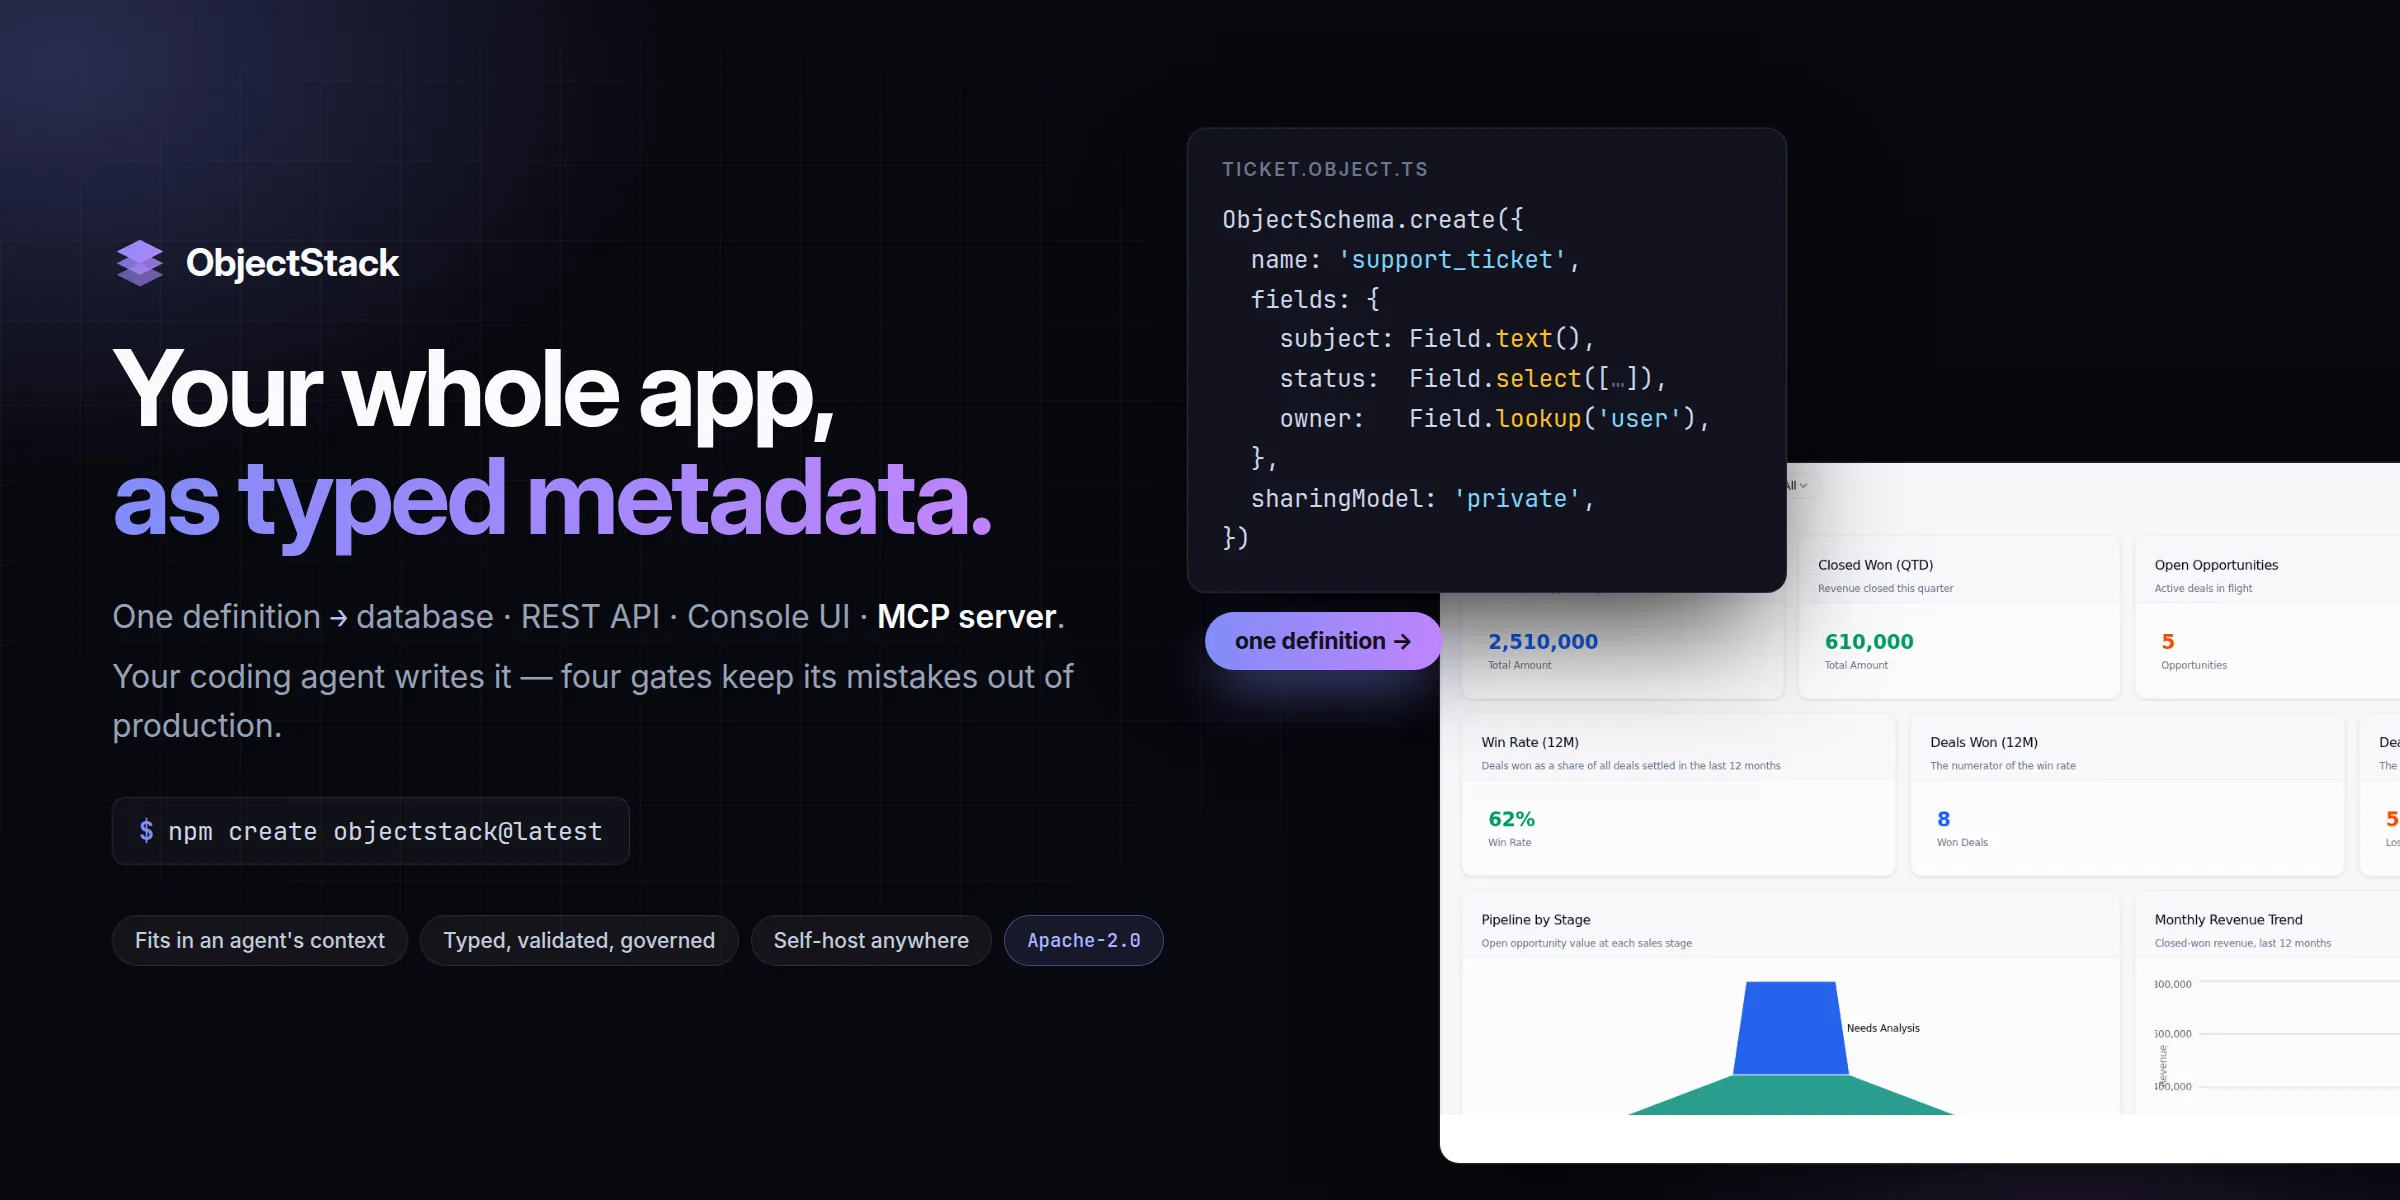
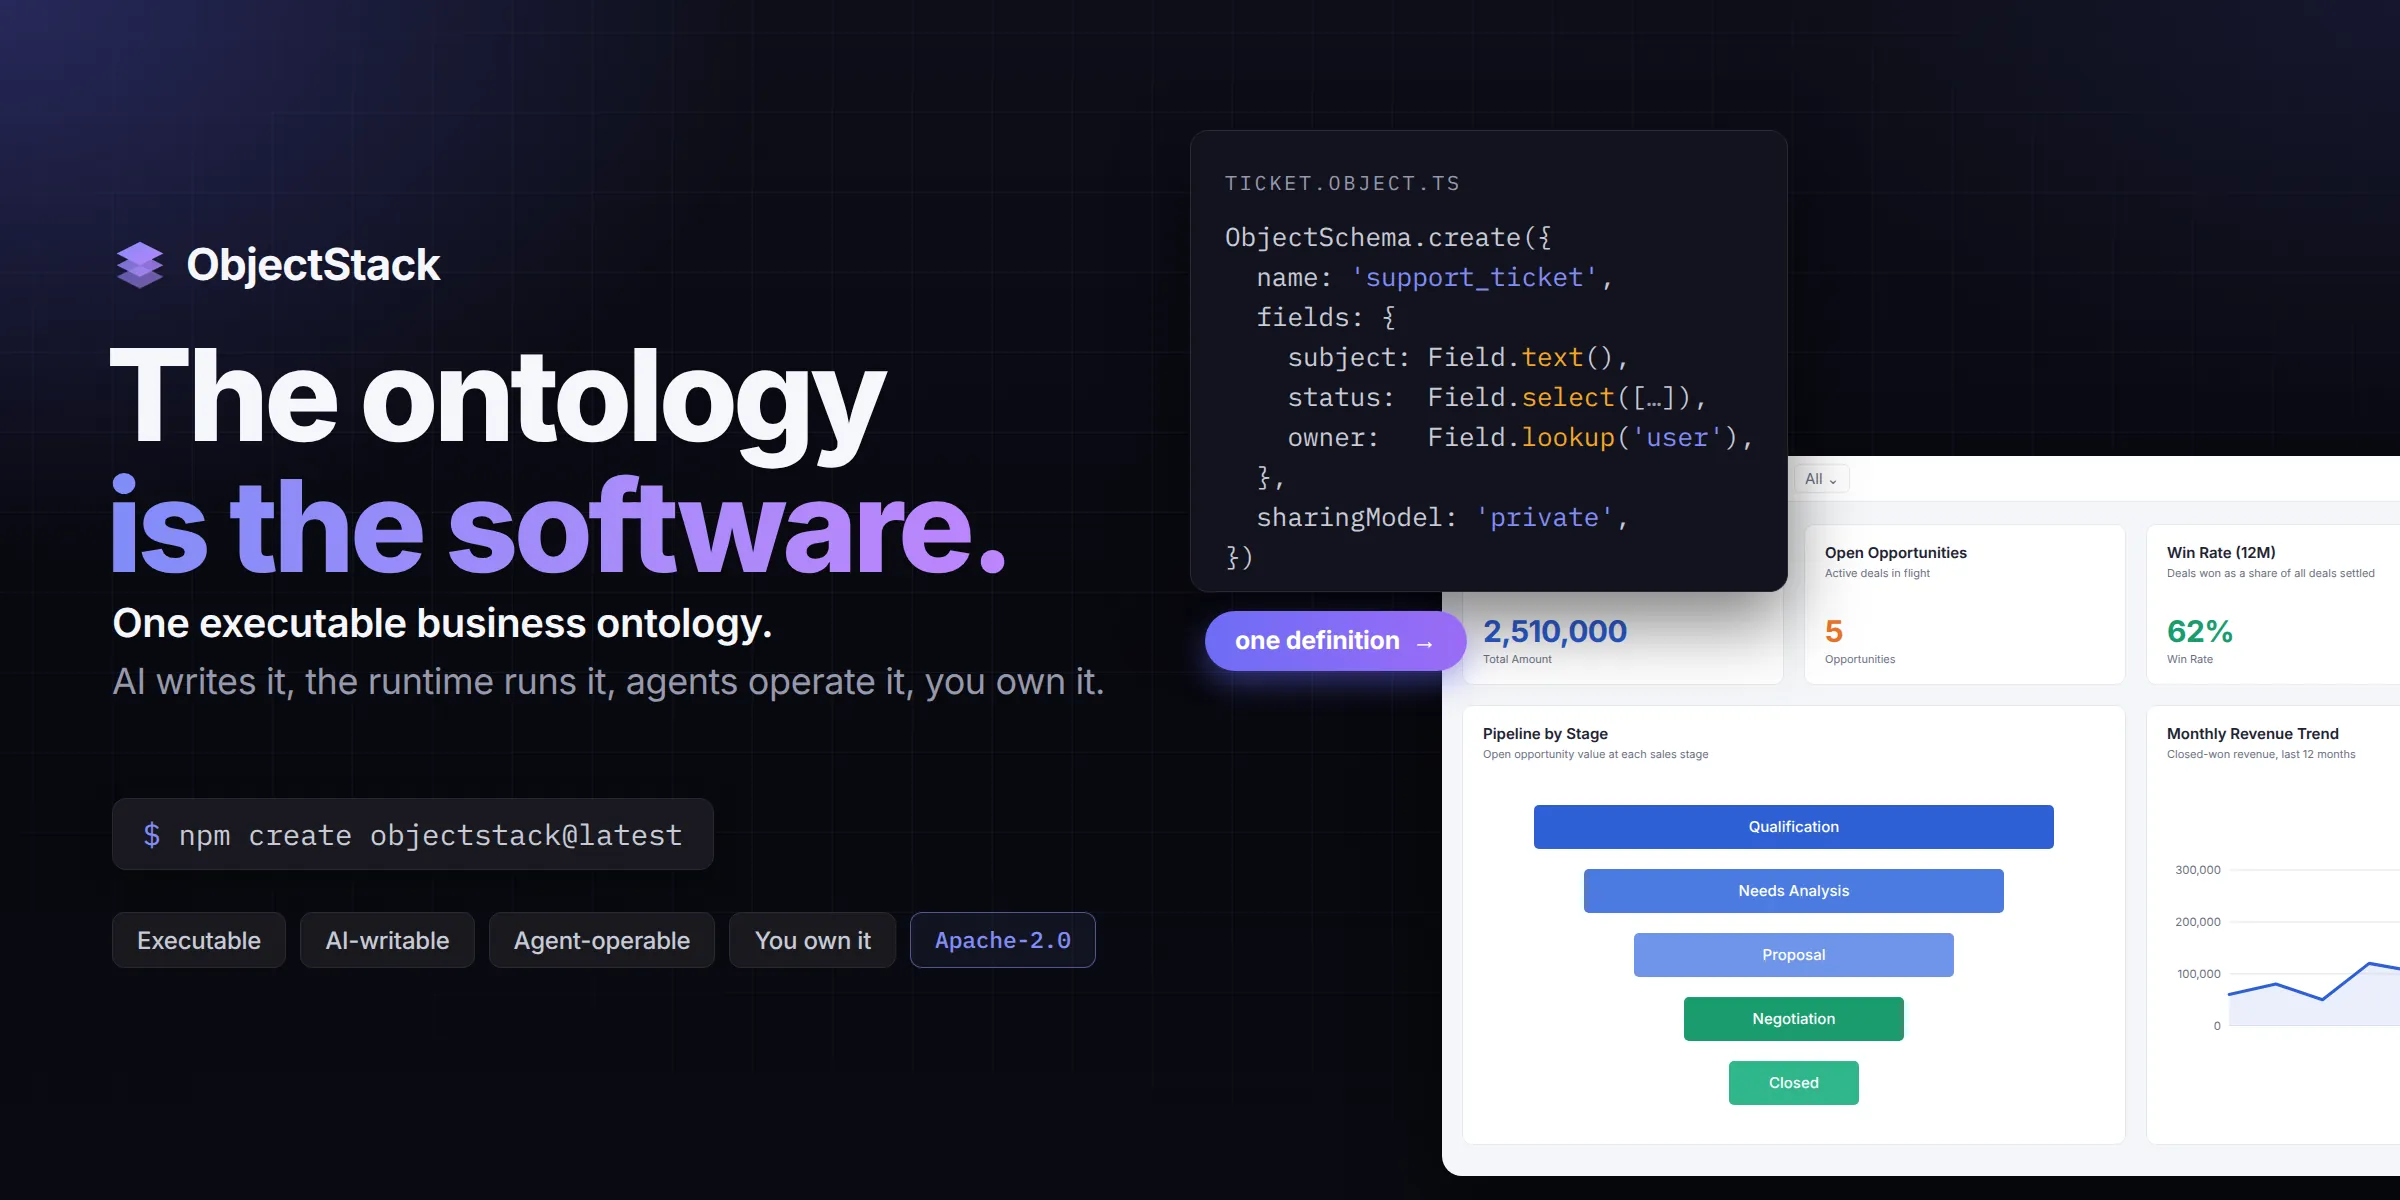
docs(cover): re-render the hero cover on the slogan, with its template beside it
The README hero (docs/screenshots/hero-cover-dark.png, 2400x1200) and the
docs site's og:image / video poster (apps/docs/public/hero-cover-dark.webp)
now carry the headline "The ontology is the software.", the descriptor
and the chips Executable · AI-writable · Agent-operable · You own it ·
Apache-2.0. There was no design source in the repo; the cover is now a
screenshot of docs/screenshots/hero-cover-dark.html taken by
docs/screenshots/render-hero-cover.mjs with the preinstalled Playwright
Chromium (resolved from the showcase example's @playwright/test), and
the webp is derived from that PNG by sharp (quality 80, effort 6, as the
HERO_COVER provenance block prescribes; sharp resolved from the docs
app's Next dependency). The provenance block records the new bytes
(563,953 B PNG, 85,472 B webp) and sharp 0.35.4; the declared 2400x1200
is unchanged and matches the files.

Claude-Session: https://claude.ai/code/session_011hRnra93sK5Q2gTYYTbdJR

diff --git a/docs/screenshots/hero-cover-dark.html b/docs/screenshots/hero-cover-dark.html
@@ -1,0 +1,275 @@
+<!doctype html>
+<!--
+  hero-cover-dark.html — the design source of the README hero cover.
+
+  Renders at exactly 2400 x 1200. The committed master
+  `docs/screenshots/hero-cover-dark.png` is a screenshot of this page, and
+  `apps/docs/public/hero-cover-dark.webp` (the docs site's og:image and video
+  poster) is derived from that PNG — see the provenance block on `HERO_COVER` in
+  `apps/docs/lib/site.ts`. The next copy change is an edit here plus one
+  re-render; nothing is hand-painted.
+
+  Re-render both files (the preinstalled Playwright Chromium, never
+  `playwright install`; sharp resolves from the docs app's Next dependency):
+
+    node docs/screenshots/render-hero-cover.mjs
+
+  Preview without touching the committed files:
+
+    node docs/screenshots/render-hero-cover.mjs --out /tmp/hero-preview
+
+  The equivalent of the webp step by hand, from the PNG master and never from a
+  previous webp (a lossy re-encode of a lossy source compounds):
+
+    sharp('docs/screenshots/hero-cover-dark.png')
+      .webp({ quality: 80, effort: 6 })
+      .toFile('apps/docs/public/hero-cover-dark.webp')
+
+  Typography is Inter and IBM Plex Mono from Google Fonts; the render script
+  refuses to write the committed files when those fonts did not load, so an
+  offline render cannot silently ship the system fallback.
+
+  Copy on this page is fixed by the positioning card: the slogan, the
+  descriptor and the four promises are quoted verbatim from README.md and must
+  change together with it.
+-->
+<html lang="en">
+<head>
+<meta charset="utf-8">
+<title>ObjectStack — hero cover</title>
+<link rel="preconnect" href="https://fonts.googleapis.com">
+<link rel="preconnect" href="https://fonts.gstatic.com" crossorigin>
+<link href="https://fonts.googleapis.com/css2?family=Inter:wght@400;500;600;700;800&family=IBM+Plex+Mono:wght@400;500&display=block" rel="stylesheet">
+<style>
+  :root {
+    --bg: #08080f;
+    --bg-2: #0d0e18;
+    --grid: rgba(148, 163, 230, 0.075);
+    --fg: #f5f6fa;
+    --fg-2: #c7cad6;
+    --fg-3: #9598ab;
+    --indigo: #818cf8;
+    --violet: #a78bfa;
+    --purple: #bd84fc;
+    --card: #12131f;
+    --card-2: #191920;
+    --line: #2a2a30;
+    --amber: #f5a623;
+    --dash-bg: #f4f5f8;
+    --dash-card: #ffffff;
+    --dash-line: #e6e8ee;
+    --dash-fg: #1f2433;
+    --dash-fg-2: #6b7085;
+    --kpi-blue: #2f5fd6;
+    --kpi-green: #1a9c6e;
+    --kpi-orange: #e8752a;
+    --font-sans: Inter, 'Liberation Sans', 'DejaVu Sans', system-ui, sans-serif;
+    --font-mono: 'IBM Plex Mono', 'Liberation Mono', 'DejaVu Sans Mono', monospace;
+  }
+  * { box-sizing: border-box; margin: 0; padding: 0; }
+  html, body { width: 2400px; height: 1200px; overflow: hidden; }
+  body {
+    position: relative;
+    background: var(--bg);
+    color: var(--fg);
+    font-family: var(--font-sans);
+    -webkit-font-smoothing: antialiased;
+    text-rendering: geometricPrecision;
+  }
+  .backdrop {
+    position: absolute; inset: 0;
+    background:
+      radial-gradient(1100px 760px at 0% 0%, rgba(99, 102, 241, 0.30), transparent 70%),
+      radial-gradient(900px 600px at 100% 0%, rgba(99, 102, 241, 0.10), transparent 70%),
+      linear-gradient(180deg, var(--bg-2) 0%, var(--bg) 55%, #090b11 100%);
+  }
+  .grid {
+    position: absolute; inset: 0;
+    background-image:
+      linear-gradient(to right, var(--grid) 1px, transparent 1px),
+      linear-gradient(to bottom, var(--grid) 1px, transparent 1px);
+    background-size: 80px 80px;
+    background-position: 32px 32px;
+    -webkit-mask-image: radial-gradient(ellipse 85% 75% at 45% 40%, black 30%, transparent 100%);
+            mask-image: radial-gradient(ellipse 85% 75% at 45% 40%, black 30%, transparent 100%);
+  }
+
+  /* ── left column ───────────────────────────────────────── */
+  .left { position: absolute; left: 112px; top: 0; width: 1040px; height: 1200px; }
+  .brand { position: absolute; top: 236px; left: 0; display: flex; align-items: center; gap: 18px; }
+  .brand svg { width: 56px; height: 56px; }
+  .brand span { font-size: 44px; font-weight: 700; letter-spacing: -0.02em; color: var(--fg); }
+  h1 {
+    position: absolute; top: 330px; left: -6px;
+    font-size: 128px; line-height: 1.02; font-weight: 800; letter-spacing: -0.038em;
+    color: var(--fg); white-space: nowrap;
+  }
+  h1 .accent {
+    display: block;
+    background: linear-gradient(90deg, var(--indigo) 0%, var(--violet) 55%, var(--purple) 100%);
+    -webkit-background-clip: text; background-clip: text; color: transparent;
+    padding-right: 0.08em; /* keeps the period's clip box clear of the gradient edge */
+  }
+  .sub { position: absolute; left: 0; width: 1040px; font-weight: 400; letter-spacing: -0.012em; }
+  .sub-1 { top: 598px; font-size: 40px; color: var(--fg-2); }
+  .sub-1 b { font-weight: 600; color: var(--fg); }
+  .sub-2 { top: 658px; font-size: 36px; line-height: 1.32; color: var(--fg-3); }
+  .cmd {
+    position: absolute; top: 798px; left: 0; display: inline-flex; align-items: center; gap: 18px;
+    padding: 0 30px; height: 72px; border-radius: 14px;
+    background: var(--card-2); border: 1.5px solid var(--line);
+    font-family: var(--font-mono); font-size: 29px; color: var(--fg-2);
+    box-shadow: 0 10px 30px rgba(0, 0, 0, 0.35);
+  }
+  .cmd .prompt { color: var(--indigo); }
+  .chips { position: absolute; top: 912px; left: 0; display: flex; gap: 14px; white-space: nowrap; }
+  .chip {
+    display: inline-flex; align-items: center; height: 56px; padding: 0 24px; border-radius: 12px;
+    background: #19191f; border: 1.5px solid var(--line);
+    font-size: 24px; font-weight: 500; letter-spacing: -0.01em; color: var(--fg-2);
+  }
+  .chip.licence {
+    font-family: var(--font-mono); font-size: 23px; font-weight: 500; color: var(--indigo);
+    border-color: rgba(129, 140, 248, 0.55); background: rgba(129, 140, 248, 0.08);
+  }
+
+  /* ── right column ──────────────────────────────────────── */
+  .code {
+    position: absolute; left: 1190px; top: 130px; width: 598px; height: 462px;
+    border-radius: 18px; background: var(--card); border: 1.5px solid var(--line);
+    box-shadow: 0 30px 70px rgba(0, 0, 0, 0.5); padding: 32px 34px;
+    font-family: var(--font-mono); font-size: 26px; line-height: 40px; color: var(--fg-2); z-index: 3;
+  }
+  .code .file { font-size: 20px; letter-spacing: 0.14em; color: var(--fg-3); margin-bottom: 14px; }
+  .code pre { font: inherit; white-space: pre; }
+  .code .s { color: var(--indigo); }
+  .code .fn { color: var(--amber); }
+  .code .pn { color: var(--fg-3); }
+  .pill {
+    position: absolute; left: 1205px; top: 611px; height: 60px; padding: 0 30px; border-radius: 30px;
+    display: inline-flex; align-items: center; gap: 12px; z-index: 3;
+    background: linear-gradient(90deg, #6d6cf5 0%, #9b6cf6 100%);
+    font-size: 25px; font-weight: 700; letter-spacing: -0.01em; color: #fff;
+    box-shadow: 0 12px 30px rgba(99, 102, 241, 0.45);
+  }
+  .dash {
+    position: absolute; left: 1442px; top: 456px; width: 1120px; height: 720px;
+    border-radius: 20px 0 0 20px; background: var(--dash-bg);
+    box-shadow: 0 30px 80px rgba(0, 0, 0, 0.55); overflow: hidden; z-index: 2;
+    color: var(--dash-fg); font-family: var(--font-sans);
+  }
+  .dash .bar {
+    height: 46px; border-bottom: 1px solid var(--dash-line); background: #fff;
+    display: flex; align-items: center; justify-content: flex-start; padding: 0 0 0 352px;
+    font-size: 15px; color: var(--dash-fg-2);
+  }
+  .dash .bar .sel { border: 1px solid var(--dash-line); border-radius: 6px; padding: 4px 10px; }
+  .dash .body { padding: 22px 0 0 20px; display: grid; grid-template-columns: 322px 322px 322px 322px; gap: 20px; }
+  .kpi, .panel { background: var(--dash-card); border: 1px solid var(--dash-line); border-radius: 10px; padding: 18px 20px; }
+  .kpi .t { font-size: 15px; font-weight: 600; }
+  .kpi .d { font-size: 11px; color: var(--dash-fg-2); margin-top: 4px; }
+  .kpi .v { font-size: 30px; font-weight: 700; margin-top: 34px; letter-spacing: -0.02em; }
+  .kpi .l { font-size: 11px; color: var(--dash-fg-2); margin-top: 2px; }
+  .blue { color: var(--kpi-blue); } .green { color: var(--kpi-green); } .orange { color: var(--kpi-orange); }
+  .panel { grid-column: span 2; height: 440px; }
+  .panel .t { font-size: 15px; font-weight: 600; }
+  .panel .d { font-size: 11px; color: var(--dash-fg-2); margin-top: 4px; }
+  .panel svg { display: block; margin-top: 22px; width: 100%; height: 340px; }
+  .wide { grid-column: span 2; }
+</style>
+</head>
+<body>
+<div class="backdrop"></div>
+<div class="grid"></div>
+
+<div class="left">
+  <div class="brand" aria-label="ObjectStack">
+    <svg viewBox="0 0 24 24" fill="none" aria-hidden="true">
+      <defs>
+        <linearGradient id="logo-gradient" x1="0%" y1="0%" x2="100%" y2="100%">
+          <stop offset="0%" stop-color="#818cf8" />
+          <stop offset="100%" stop-color="#c084fc" />
+        </linearGradient>
+      </defs>
+      <path d="M12 22.5L2 17.5L12 12.5L22 17.5L12 22.5Z" fill="url(#logo-gradient)" fill-opacity="0.6" />
+      <path d="M12 17.5L2 12.5L12 7.5L22 12.5L12 17.5Z" fill="url(#logo-gradient)" fill-opacity="0.8" />
+      <path d="M12 12.5L2 7.5L12 2.5L22 7.5L12 12.5Z" fill="url(#logo-gradient)" fill-opacity="1" />
+    </svg>
+    <span>ObjectStack</span>
+  </div>
+
+  <h1>The ontology<span class="accent">is the software.</span></h1>
+
+  <p class="sub sub-1"><b>One executable business ontology.</b></p>
+  <p class="sub sub-2">AI writes it, the runtime runs it, agents operate it, you own it.</p>
+
+  <div class="cmd"><span class="prompt">$</span><span>npm create objectstack@latest</span></div>
+
+  <div class="chips">
+    <span class="chip">Executable</span>
+    <span class="chip">AI-writable</span>
+    <span class="chip">Agent-operable</span>
+    <span class="chip">You own it</span>
+    <span class="chip licence">Apache-2.0</span>
+  </div>
+</div>
+
+<div class="code">
+  <div class="file">TICKET.OBJECT.TS</div>
+<pre>ObjectSchema.create({
+  name: <span class="s">'support_ticket'</span>,
+  fields: {
+    subject: Field.<span class="fn">text</span>(),
+    status:  Field.<span class="fn">select</span>([<span class="pn">…</span>]),
+    owner:   Field.<span class="fn">lookup</span>(<span class="s">'user'</span>),
+  },
+  sharingModel: <span class="s">'private'</span>,
+})</pre>
+</div>
+
+<div class="pill">one definition <span aria-hidden="true">→</span></div>
+
+<div class="dash" aria-hidden="true">
+  <div class="bar"><span class="sel">All ⌄</span></div>
+  <div class="body">
+    <div class="kpi"><div class="t">Closed Won (QTD)</div><div class="d">Revenue closed this quarter</div><div class="v blue">2,510,000</div><div class="l">Total Amount</div></div>
+    <div class="kpi"><div class="t">Open Opportunities</div><div class="d">Active deals in flight</div><div class="v orange">5</div><div class="l">Opportunities</div></div>
+    <div class="kpi"><div class="t">Win Rate (12M)</div><div class="d">Deals won as a share of all deals settled</div><div class="v green">62%</div><div class="l">Win Rate</div></div>
+    <div class="kpi"><div class="t">Deals Won (12M)</div><div class="d">The numerator of the win rate</div><div class="v blue">8</div><div class="l">Won Deals</div></div>
+    <div class="panel">
+      <div class="t">Pipeline by Stage</div><div class="d">Open opportunity value at each sales stage</div>
+      <svg viewBox="0 0 600 340">
+        <rect x="40" y="22" width="520" height="44" rx="5" fill="#2f5fd6"/>
+        <rect x="90" y="86" width="420" height="44" rx="5" fill="#4b7be0"/>
+        <rect x="140" y="150" width="320" height="44" rx="5" fill="#6d94ea"/>
+        <rect x="190" y="214" width="220" height="44" rx="5" fill="#1a9c6e"/>
+        <rect x="235" y="278" width="130" height="44" rx="5" fill="#30b68a"/>
+        <g font-size="15" font-weight="500" fill="#fff" text-anchor="middle" font-family="Inter">
+          <text x="300" y="49">Qualification</text>
+          <text x="300" y="113">Needs Analysis</text>
+          <text x="300" y="177">Proposal</text>
+          <text x="300" y="241">Negotiation</text>
+          <text x="300" y="305">Closed</text>
+        </g>
+      </svg>
+    </div>
+    <div class="panel">
+      <div class="t">Monthly Revenue Trend</div><div class="d">Closed-won revenue, last 12 months</div>
+      <svg viewBox="0 0 600 220">
+        <g stroke="#e6e8ee" stroke-width="1">
+          <line x1="60" y1="30" x2="580" y2="30"/><line x1="60" y1="80" x2="580" y2="80"/>
+          <line x1="60" y1="130" x2="580" y2="130"/><line x1="60" y1="180" x2="580" y2="180"/>
+        </g>
+        <g font-size="11" fill="#6b7085" font-family="Inter" text-anchor="end">
+          <text x="52" y="34">300,000</text><text x="52" y="84">200,000</text><text x="52" y="134">100,000</text><text x="52" y="184">0</text>
+        </g>
+        <polyline fill="none" stroke="#2f5fd6" stroke-width="3" stroke-linejoin="round" stroke-linecap="round"
+          points="60,150 105,140 150,155 195,120 240,128 285,100 330,110 375,84 420,92 465,66 510,74 555,48"/>
+        <polygon fill="#2f5fd6" fill-opacity="0.10"
+          points="60,150 105,140 150,155 195,120 240,128 285,100 330,110 375,84 420,92 465,66 510,74 555,48 555,180 60,180"/>
+      </svg>
+    </div>
+  </div>
+</div>
+</body>
+</html>

diff --git a/apps/docs/lib/site.ts b/apps/docs/lib/site.ts
@@ -60,16 +60,20 @@ export function absoluteUrl(path: string): string {
  *
  * ## Provenance — how to re-encode it
  *
- * The master is `docs/screenshots/hero-cover-dark.png` (2400x1200, 406,703 B),
+ * The master is `docs/screenshots/hero-cover-dark.png` (2400x1200, 563,953 B),
  * which the README embeds directly from the repo and which is NOT served by this
- * site. This file is a lossy WebP derived from that master, and the derivation is
- * the whole reason it is small enough to sit above the fold:
+ * site. The master is itself a render of `docs/screenshots/hero-cover-dark.html`
+ * by `docs/screenshots/render-hero-cover.mjs` (the preinstalled Playwright
+ * Chromium), so a copy change is an edit to that template and one re-render —
+ * the script performs the derivation below as its second step. This file is a
+ * lossy WebP derived from that master, and the derivation is the whole reason it
+ * is small enough to sit above the fold:
  *
  *   sharp('docs/screenshots/hero-cover-dark.png')
- *     .webp({ quality: 80, effort: 6 })            // sharp 0.35.3 / libwebp 1.6.0
+ *     .webp({ quality: 80, effort: 6 })            // sharp 0.35.4 / libwebp 1.6.0
  *     .toFile('apps/docs/public/hero-cover-dark.webp')
  *
- * 83,272 B — 20.5% of the PNG. Re-encode from the master, never from this file:
+ * 85,472 B — 15.2% of the PNG. Re-encode from the master, never from this file:
  * a lossy re-encode of a lossy source compounds. And do not "restore" the PNG
  * alongside it — a `public/` holding both is how the next re-encode picks the
  * wrong one.
